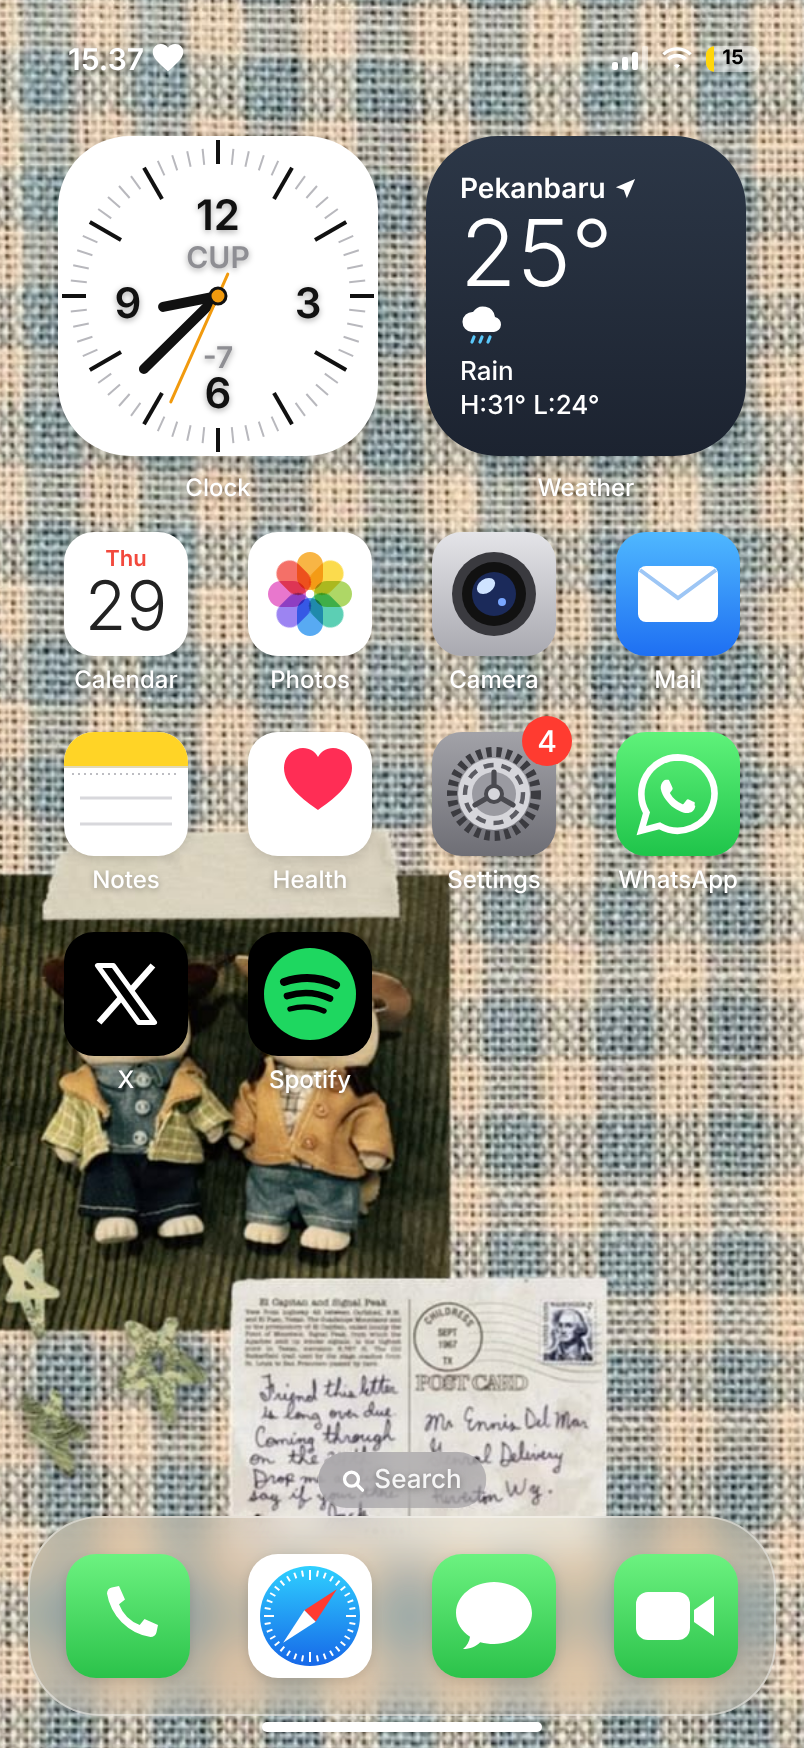
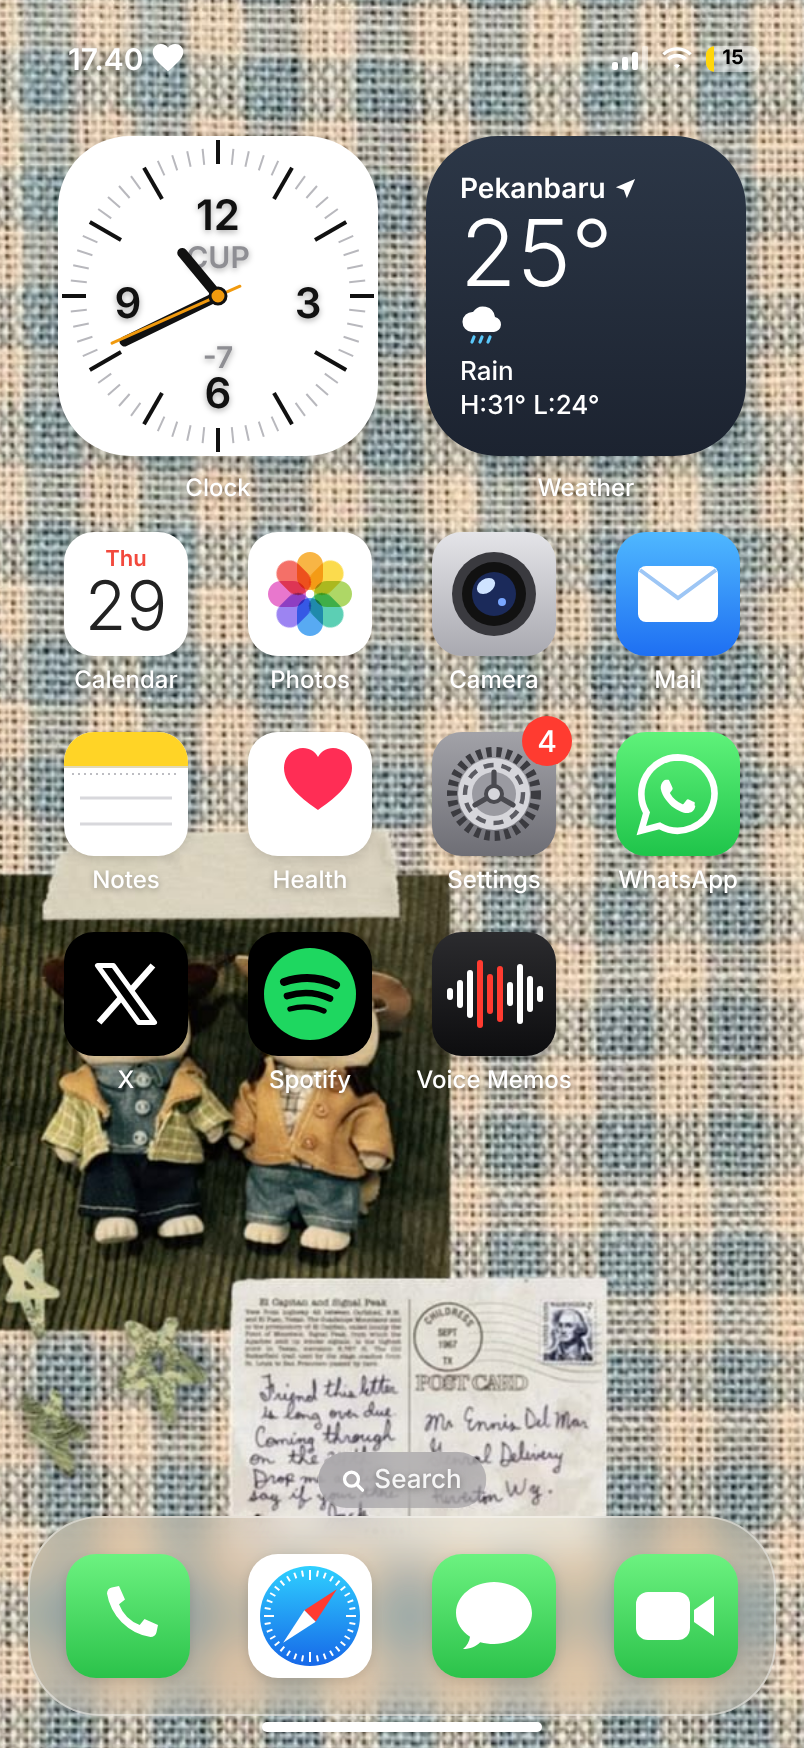
Add Voice Memos to the home screen
Claude-Session: https://claude.ai/code/session_01S4MMPuSAFcVib9uRGyTrxa

Changed region(s): [[0.5286, 0.5252, 0.7152, 0.6487], [0.1555, 0.1236, 0.2799, 0.2162], [0.0933, 0.0309, 0.1866, 0.0618]]

diff --git a/index.html b/index.html
@@ -1224,6 +1224,7 @@ kantong sampah 😭
     Settings: { bg: "linear-gradient(#a2a2a8,#6e6e75)", badge: () => CONFIG.settingsBadge, svg: `<svg width="52" height="52" viewBox="0 0 52 52"><circle cx="26" cy="26" r="21" fill="none" stroke="#3b3b40" stroke-width="5" stroke-dasharray="2.6 2.4"/><circle cx="26" cy="26" r="18" fill="#d6d6db"/><circle cx="26" cy="26" r="14.5" fill="none" stroke="#5c5c63" stroke-width="2.2" stroke-dasharray="5 4"/><circle cx="26" cy="26" r="11" fill="#9a9aa1"/><path d="M26 15v11M26 26l9.5 5.5M26 26l-9.5 5.5" stroke="#4a4a50" stroke-width="2.6" stroke-linecap="round"/><circle cx="26" cy="26" r="4" fill="#d6d6db" stroke="#4a4a50" stroke-width="2"/></svg>` },
     WhatsApp: { bg: "linear-gradient(#5ff27a,#1fc44a)", svg: `<svg width="44" height="44" viewBox="0 0 24 24"><path d="M12 2a10 10 0 0 0-8.6 15.1L2 22l5-1.3A10 10 0 1 0 12 2Z" fill="none" stroke="#fff" stroke-width="1.8"/><path d="M16.6 14.3c-.2-.1-1.4-.7-1.7-.8-.2-.1-.4-.1-.5.1l-.8 1c-.1.2-.3.2-.5.1-1.2-.5-2.4-1.4-3.2-2.8-.2-.4.2-.4.6-1.2.1-.1 0-.3 0-.4l-.8-1.8c-.2-.5-.4-.4-.5-.4h-.5c-.2 0-.4.1-.6.3-.6.6-.9 1.4-.8 2.2.2 1.1.7 2.1 1.4 3 1.3 1.8 2.9 2.9 4.9 3.5.9.2 1.7.1 2.3-.3.4-.3.7-.8.8-1.3 0-.2 0-.3-.2-.4Z" fill="#fff"/></svg>` },
     X: { bg: "#000", svg: `<svg width="38" height="38" viewBox="0 0 24 24"><path d="M3 3h5l13 18h-5Z" fill="none" stroke="#fff" stroke-width="1.6" stroke-linejoin="round"/><path d="M20.5 3 13.4 11M3.5 21l7.1-8" stroke="#fff" stroke-width="2"/></svg>` },
+    "Voice Memos": { bg: "linear-gradient(#2b2b2e,#0d0d0f)", svg: `<svg width="52" height="50" viewBox="0 0 52 50"><rect x="2.5" y="22.0" width="3" height="6" rx="1.5" fill="#fff"/><rect x="7.5" y="18.0" width="3" height="14" rx="1.5" fill="#fff"/><rect x="12.5" y="13.0" width="3" height="24" rx="1.5" fill="#fff"/><rect x="17.5" y="8.0" width="3" height="34" rx="1.5" fill="#ff3b30"/><rect x="22.5" y="15.0" width="3" height="20" rx="1.5" fill="#ff3b30"/><rect x="27.5" y="11.0" width="3" height="28" rx="1.5" fill="#ff3b30"/><rect x="32.5" y="19.0" width="3" height="12" rx="1.5" fill="#fff"/><rect x="37.5" y="10.0" width="3" height="30" rx="1.5" fill="#fff"/><rect x="42.5" y="16.0" width="3" height="18" rx="1.5" fill="#fff"/><rect x="47.5" y="21.0" width="3" height="8" rx="1.5" fill="#fff"/></svg>` },
     Spotify: { bg: "#000", svg: `<svg width="50" height="50" viewBox="0 0 50 50"><circle cx="25" cy="25" r="23" fill="#1ed760"/><g fill="none" stroke="#000" stroke-linecap="round"><path d="M12 19c9-3 18-2.5 26 1.5" stroke-width="4"/><path d="M13.5 26c7.5-2.3 15-1.8 21.5 1.3" stroke-width="3.3"/><path d="M15 32.5c6-1.7 11.8-1.3 17 1" stroke-width="2.7"/></g></svg>` },
     Phone: { bg: "linear-gradient(#6cf280,#2bc24a)", svg: `<svg width="36" height="36" viewBox="0 0 24 24"><path d="M6.6 2.5 9 2l2 4.5-2 1.6a12 12 0 0 0 6.9 6.9l1.6-2 4.5 2-.5 2.4c-.2 1-1 1.6-2 1.6A17.5 17.5 0 0 1 5 4.5c0-1 .6-1.8 1.6-2Z" fill="#fff"/></svg>` },
     Safari: { bg: "#fff", svg: `<svg width="54" height="54" viewBox="0 0 54 54"><defs><linearGradient id="sf" x1="0" y1="0" x2="0" y2="1"><stop offset="0" stop-color="#2fd0ff"/><stop offset="1" stop-color="#1667e8"/></linearGradient></defs><circle cx="27" cy="27" r="25" fill="url(#sf)"/><g stroke="#fff" stroke-width="1">${Array.from({ length: 36 }, (_, i) => `<line x1="27" y1="4" x2="27" y2="${i % 9 ? 7 : 9}" transform="rotate(${i * 10} 27 27)"/>`).join("")}</g><g transform="rotate(45 27 27)"><path d="M27 8l4 19h-8Z" fill="#ff3b30"/><path d="M27 46l4-19h-8Z" fill="#fff"/></g></svg>` },
@@ -1238,7 +1239,7 @@ kantong sampah 😭
       ${label ? `<div class="label">${name}</div>` : ""}
     </div>`;
   };
-  $("apps").innerHTML = ["Calendar", "Photos", "Camera", "Mail", "Notes", "Health", "Settings", "WhatsApp", "X", "Spotify"].map(n => appHTML(n)).join("");
+  $("apps").innerHTML = ["Calendar", "Photos", "Camera", "Mail", "Notes", "Health", "Settings", "WhatsApp", "X", "Spotify", "Voice Memos"].map(n => appHTML(n)).join("");
   $("dock").innerHTML = ["Phone", "Safari", "Messages", "FaceTime"].map(n => appHTML(n, false)).join("");
 
   const pad = n => String(n).padStart(2, "0");
